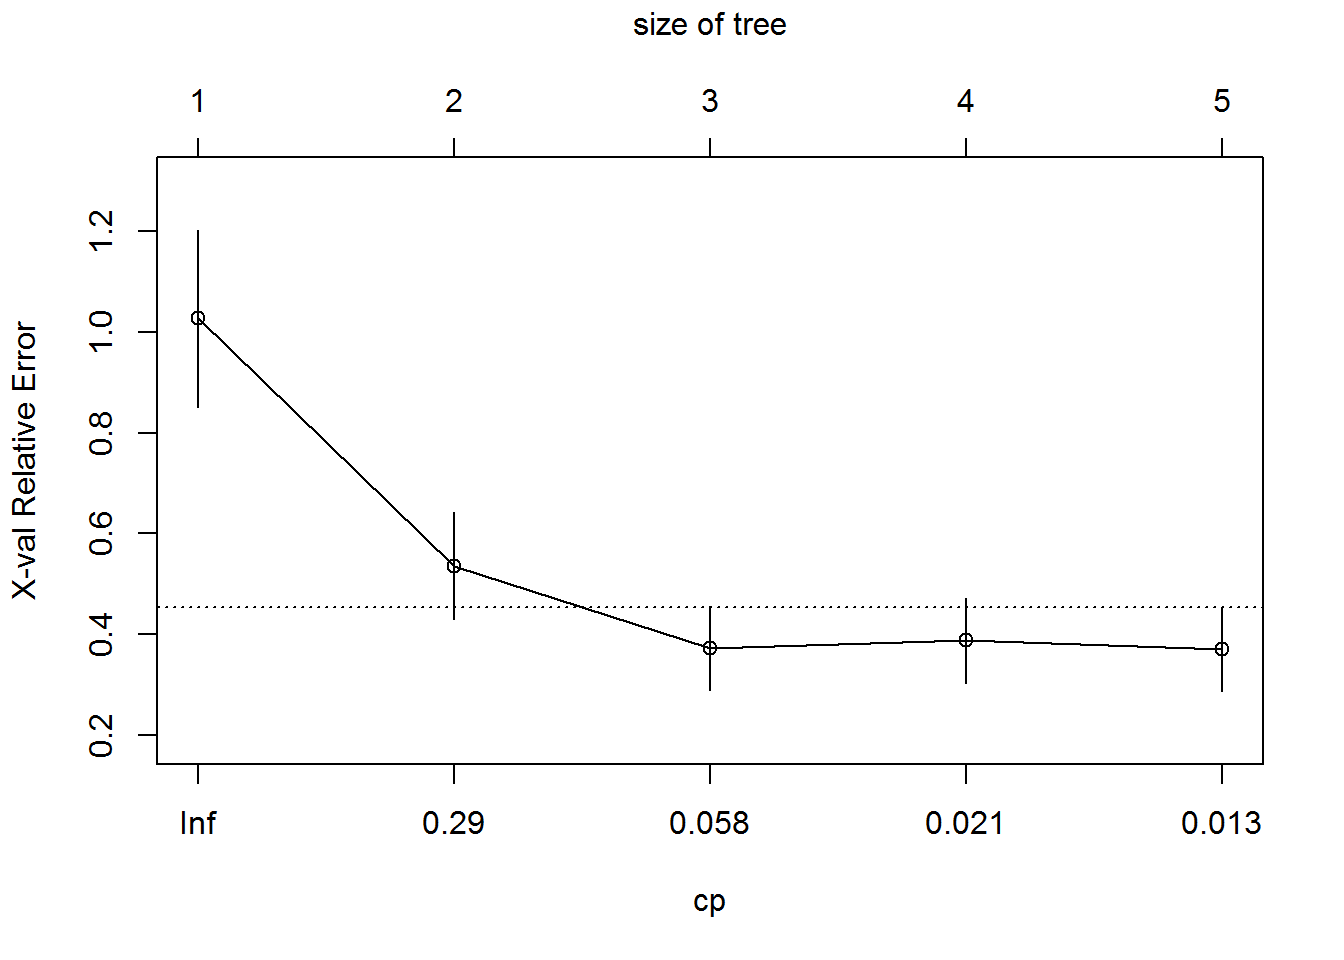
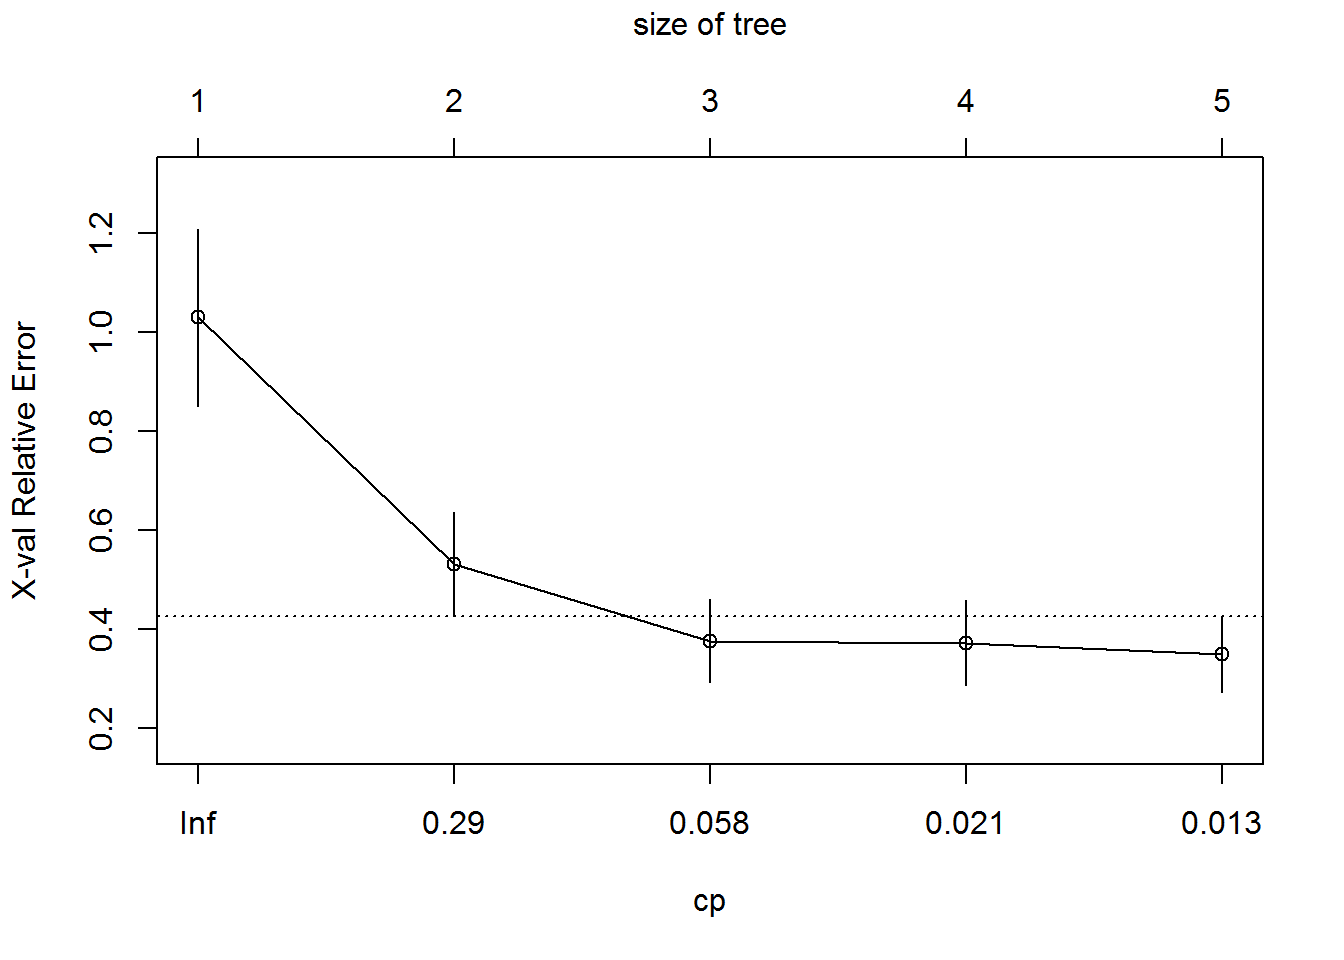
s ml3

diff --git a/public/2018/12/27/machine-learning-decision-trees/index.html b/public/2018/12/27/machine-learning-decision-trees/index.html
@@ -174,11 +174,11 @@ text(fit3, use.n = TRUE, all=TRUE, cex=.8)</code></pre>
 <p>You can extract all these values programmatically from the model’s <em>cptable</em>, as follows:</p>
 <pre class="r"><code>fit3$cptable</code></pre>
 <pre><code>##           CP nsplit rel error    xerror       xstd
-## 1 0.62288527      0 1.0000000 1.0265666 0.17567028
-## 2 0.13206061      1 0.3771147 0.5359849 0.10579037
-## 3 0.02544094      2 0.2450541 0.3733914 0.08334338
-## 4 0.01772069      3 0.2196132 0.3880904 0.08375941
-## 5 0.01000000      4 0.2018925 0.3714978 0.08352939</code></pre>
+## 1 0.62288527      0 1.0000000 1.0295681 0.17828009
+## 2 0.13206061      1 0.3771147 0.5311535 0.10538275
+## 3 0.02544094      2 0.2450541 0.3769875 0.08448195
+## 4 0.01772069      3 0.2196132 0.3727303 0.08512904
+## 5 0.01000000      4 0.2018925 0.3498613 0.07613958</code></pre>
 <p>You can see that the error is minimized at tree size 3. Now let’s prune the previously created tree.</p>
 <pre class="r"><code>fit3.pruned &lt;- prune(fit3, cp = fit3$cptable[which.min(fit3$cptable[,&quot;xerror&quot;]), &quot;CP&quot;])</code></pre>
 <pre class="r"><code>par(mfrow = c(1, 2))
@@ -249,6 +249,10 @@ plot(fit7)</code></pre>
 <p>Advantages and disadvantages of decision trees:</p>
 <p>Due to their structure, decision trees are easy to understand, interpret and visualize. In doing so, a variable check or feature selection is implicitly performed. Both numerical and non-numerical data can be processed simultaneously relatively little effort on the part of the user for the data preparation requires.</p>
 <p>On the other hand, too complex trees can be created that do not generalize the data well. This is called over-fitting. Small variations in the data can also make the trees unstable, creating a tree that does not solve the problem. This phenomenon is called variance.</p>
+</div>
+<div id="source" class="section level1">
+<h1>Source</h1>
+<p>Burger, S. V. (2018). Introduction to Machine Learning with R: Rigorous Mathematical Analysis. &quot; O’Reilly Media, Inc.“.</p>
 </div>
 
     </div>

diff --git a/content/post/2018-12-27-machine-learning-decision-trees.html b/content/post/2018-12-27-machine-learning-decision-trees.html
@@ -112,11 +112,11 @@ text(fit3, use.n = TRUE, all=TRUE, cex=.8)</code></pre>
 <p>You can extract all these values programmatically from the model’s <em>cptable</em>, as follows:</p>
 <pre class="r"><code>fit3$cptable</code></pre>
 <pre><code>##           CP nsplit rel error    xerror       xstd
-## 1 0.62288527      0 1.0000000 1.0265666 0.17567028
-## 2 0.13206061      1 0.3771147 0.5359849 0.10579037
-## 3 0.02544094      2 0.2450541 0.3733914 0.08334338
-## 4 0.01772069      3 0.2196132 0.3880904 0.08375941
-## 5 0.01000000      4 0.2018925 0.3714978 0.08352939</code></pre>
+## 1 0.62288527      0 1.0000000 1.0295681 0.17828009
+## 2 0.13206061      1 0.3771147 0.5311535 0.10538275
+## 3 0.02544094      2 0.2450541 0.3769875 0.08448195
+## 4 0.01772069      3 0.2196132 0.3727303 0.08512904
+## 5 0.01000000      4 0.2018925 0.3498613 0.07613958</code></pre>
 <p>You can see that the error is minimized at tree size 3. Now let’s prune the previously created tree.</p>
 <pre class="r"><code>fit3.pruned &lt;- prune(fit3, cp = fit3$cptable[which.min(fit3$cptable[,&quot;xerror&quot;]), &quot;CP&quot;])</code></pre>
 <pre class="r"><code>par(mfrow = c(1, 2))
@@ -187,4 +187,8 @@ plot(fit7)</code></pre>
 <p>Advantages and disadvantages of decision trees:</p>
 <p>Due to their structure, decision trees are easy to understand, interpret and visualize. In doing so, a variable check or feature selection is implicitly performed. Both numerical and non-numerical data can be processed simultaneously relatively little effort on the part of the user for the data preparation requires.</p>
 <p>On the other hand, too complex trees can be created that do not generalize the data well. This is called over-fitting. Small variations in the data can also make the trees unstable, creating a tree that does not solve the problem. This phenomenon is called variance.</p>
+</div>
+<div id="source" class="section level1">
+<h1>Source</h1>
+<p>Burger, S. V. (2018). Introduction to Machine Learning with R: Rigorous Mathematical Analysis. &quot; O’Reilly Media, Inc.“.</p>
 </div>

diff --git a/public/2018/12/25/machine-learning-regression-regularization/index.html b/public/2018/12/25/machine-learning-regression-regularization/index.html
@@ -186,6 +186,10 @@ summary(lm.lasso4)$coefficients</code></pre>
 <h1>3 Conclusion</h1>
 <p>By selecting a suitable complexity, one obtains a model which can predict the data as best as possible. In addition to the lasso method shown, there are other well-known methods such as the ridge regression or elastic net regression, which use the regularization.</p>
 </div>
+<div id="source" class="section level1">
+<h1>Source</h1>
+<p>Burger, S. V. (2018). Introduction to Machine Learning with R: Rigorous Mathematical Analysis. &quot; O’Reilly Media, Inc.“.</p>
+</div>
 
     </div>
   </article>

diff --git a/content/post/2018-12-25-machine-learning-regression-regularization.html b/content/post/2018-12-25-machine-learning-regression-regularization.html
@@ -124,3 +124,7 @@ summary(lm.lasso4)$coefficients</code></pre>
 <h1>3 Conclusion</h1>
 <p>By selecting a suitable complexity, one obtains a model which can predict the data as best as possible. In addition to the lasso method shown, there are other well-known methods such as the ridge regression or elastic net regression, which use the regularization.</p>
 </div>
+<div id="source" class="section level1">
+<h1>Source</h1>
+<p>Burger, S. V. (2018). Introduction to Machine Learning with R: Rigorous Mathematical Analysis. &quot; O’Reilly Media, Inc.“.</p>
+</div>
